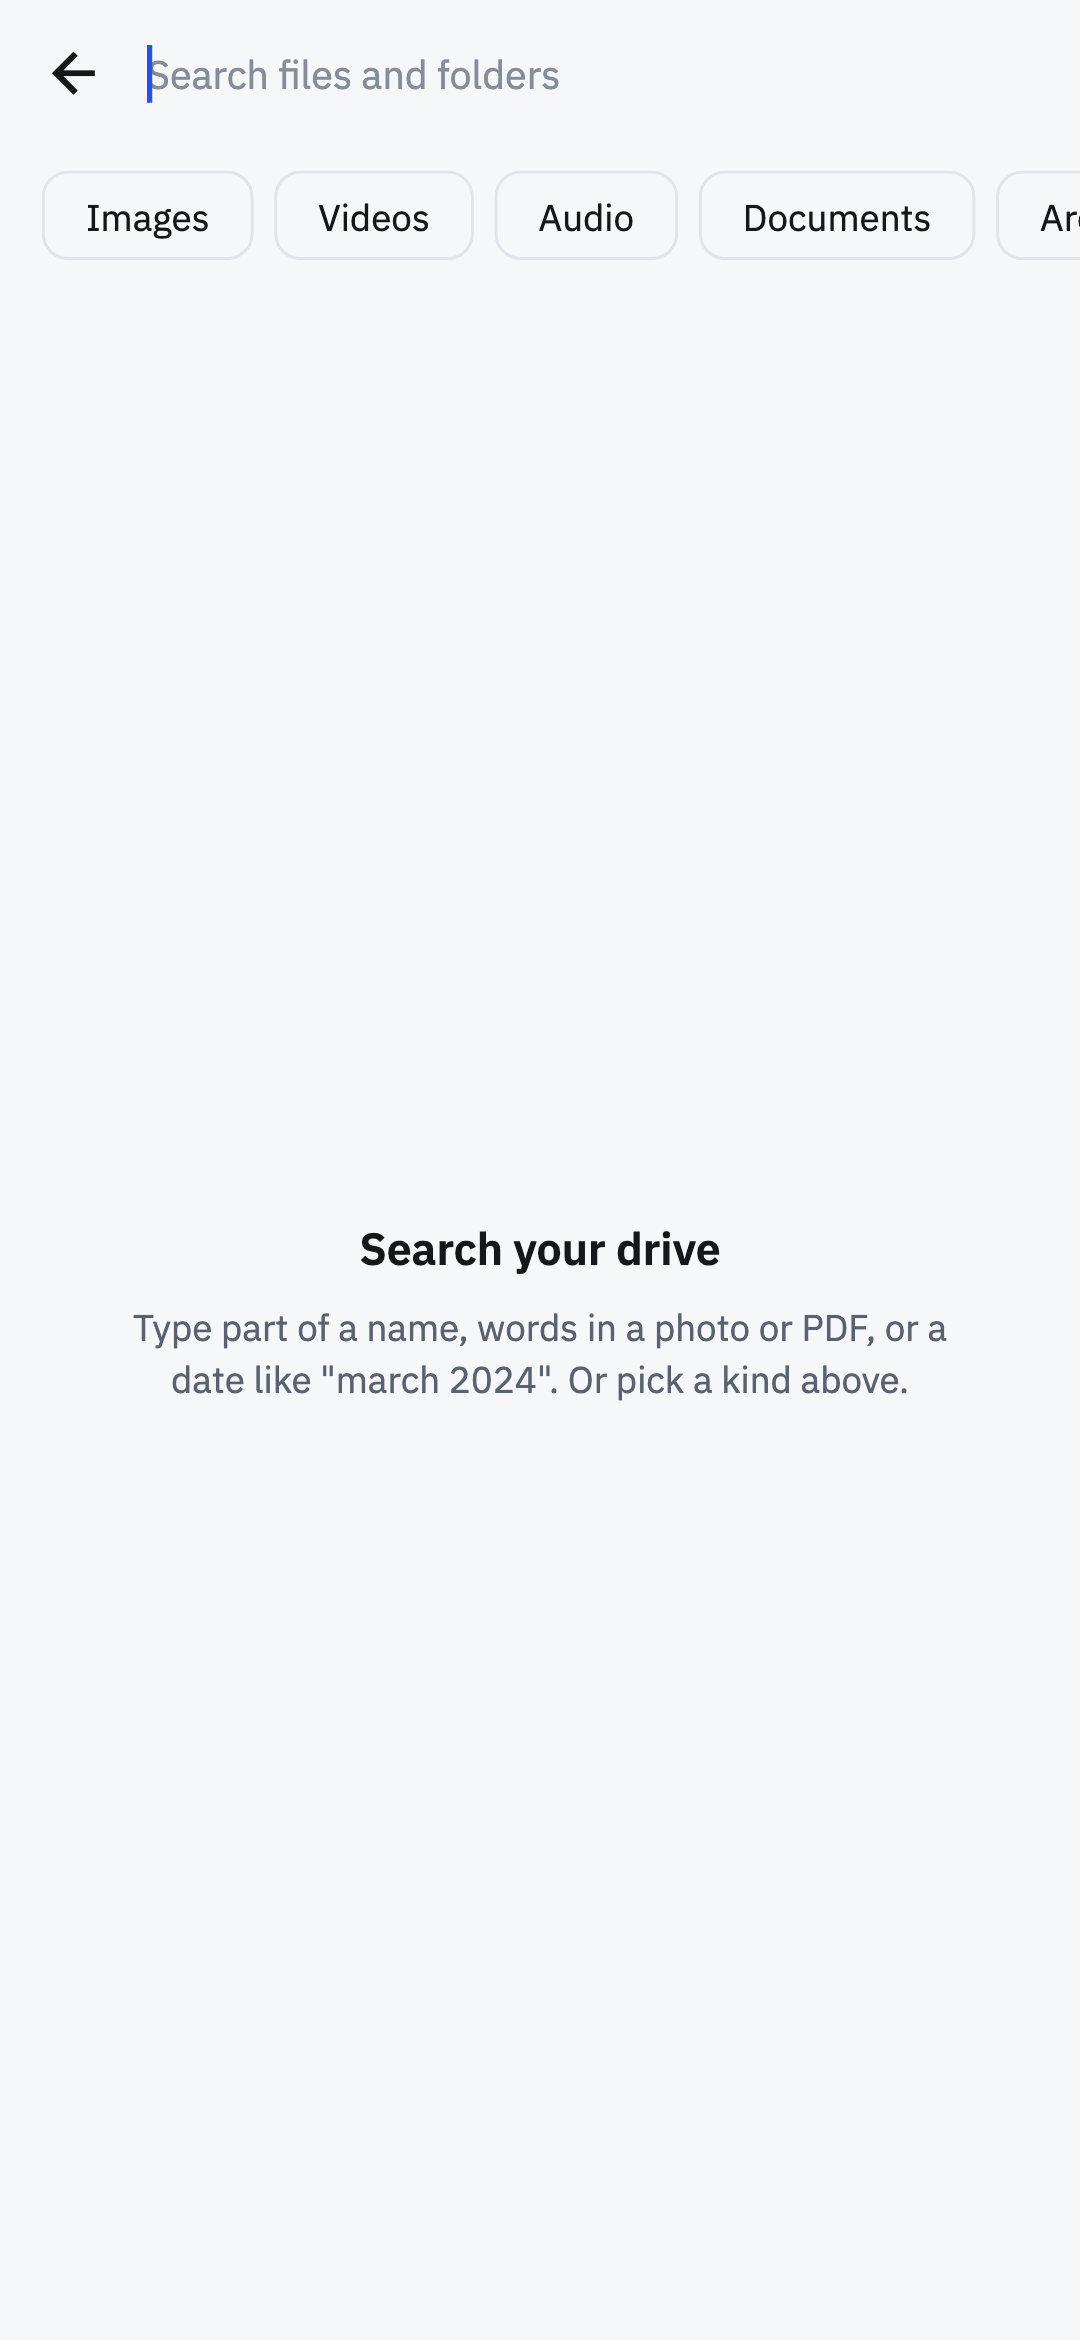
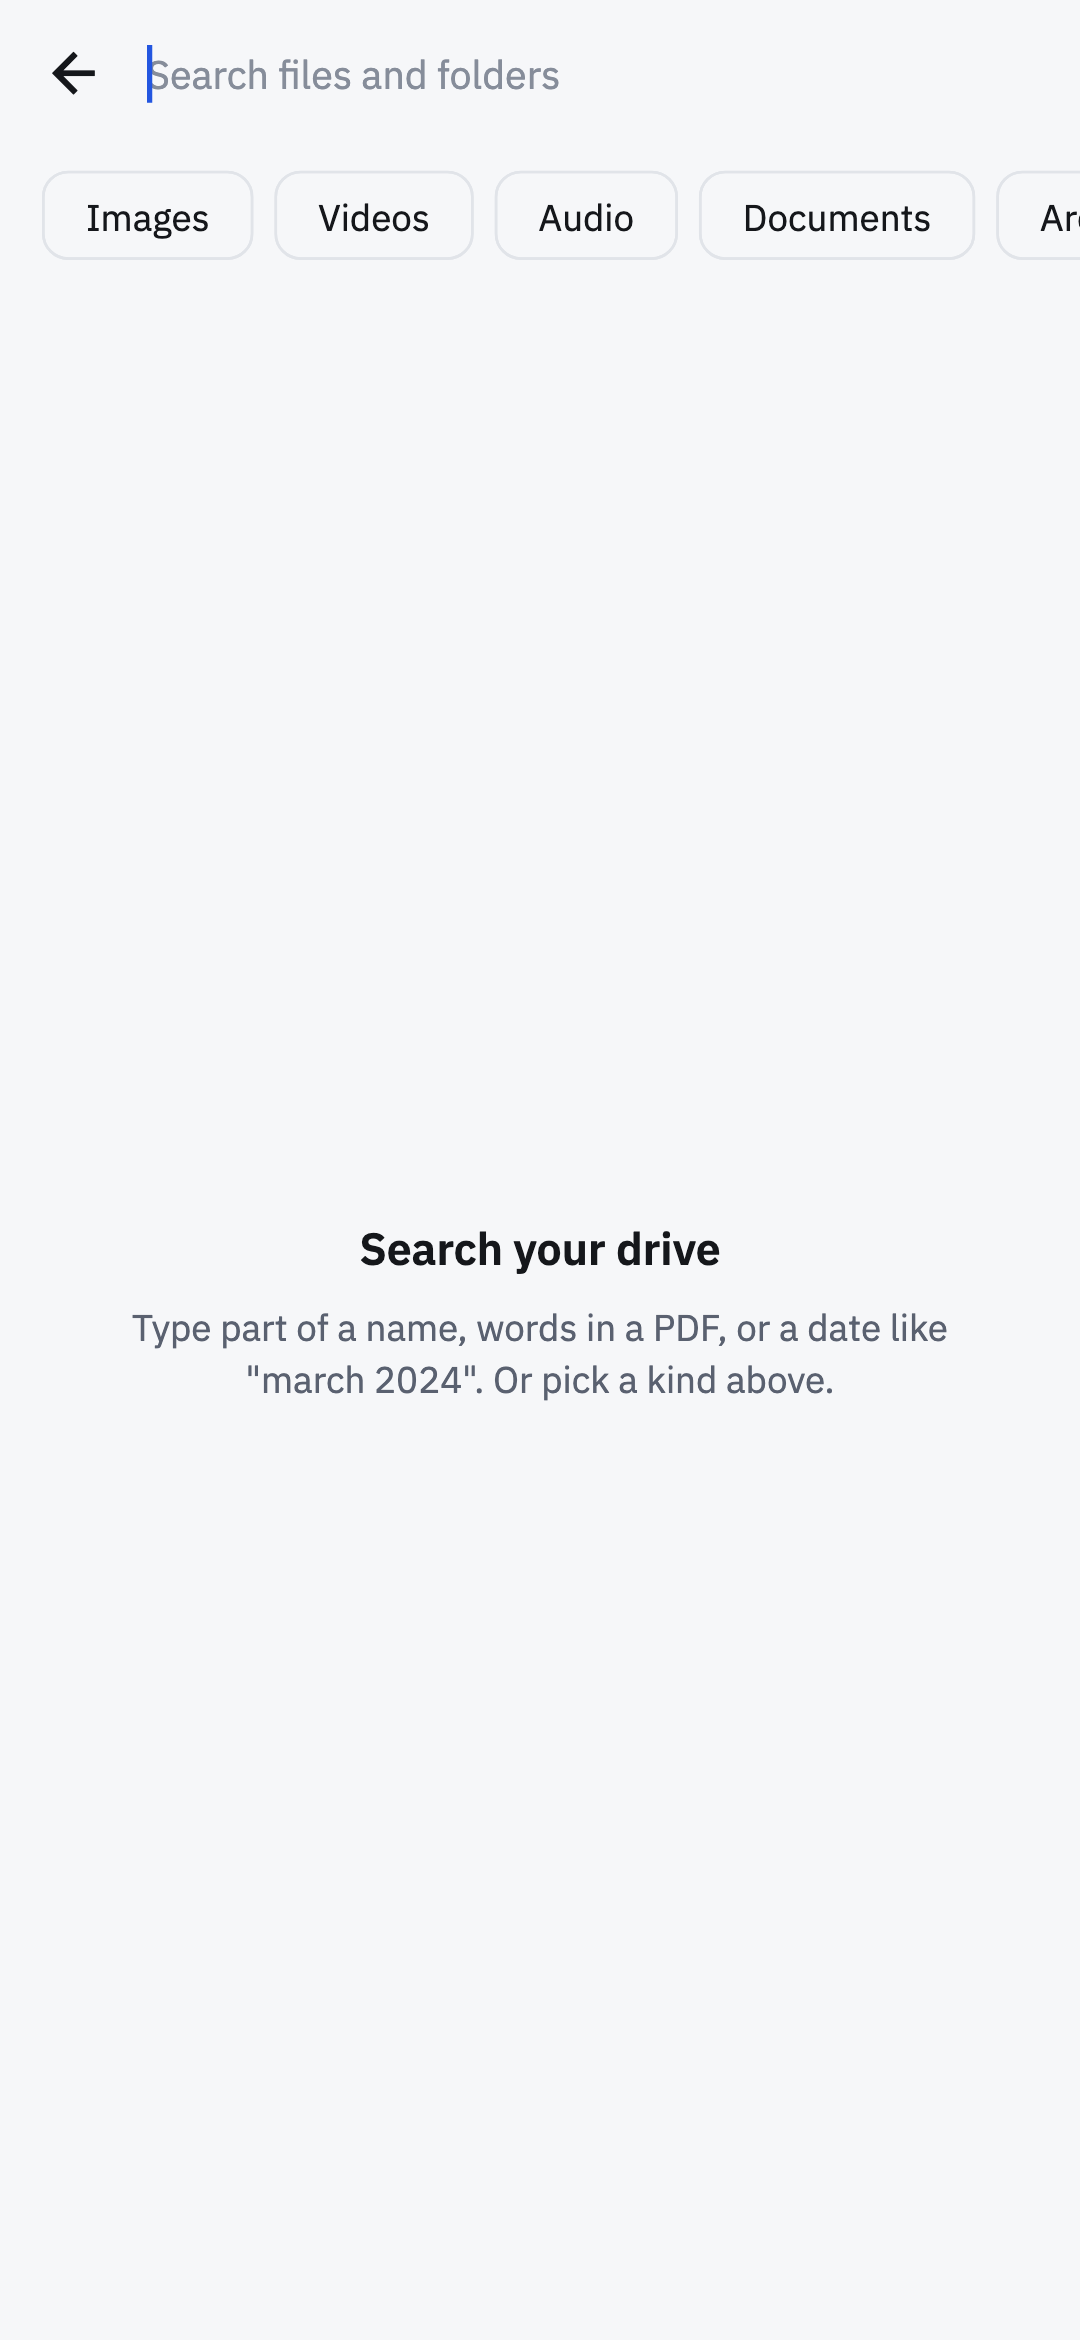
refactor(search): read documents only, without ML Kit
Recognising text and objects in photos didn't reliably find them, and the
two on-device models made the app 26 MB bigger (the arm64 APK drops from
82.8 MB to 56.7 MB). Search still reads the words in PDFs and text files,
which costs nothing extra since the PDF reader is there for previews.

- What the old indexer read from photos is dropped on its next pass
- iOS goes back to 15.0, and release builds no longer need R8 rules

Changed region(s): [[0.1528, 0.5615, 0.8556, 0.5927]]

diff --git a/lib/features/search/data/content_indexer.dart b/lib/features/search/data/content_indexer.dart
@@ -5,13 +5,10 @@ import 'dart:io';
 import 'package:connectivity_plus/connectivity_plus.dart';
 import 'package:flutter/foundation.dart';
 import 'package:flutter_riverpod/flutter_riverpod.dart';
-import 'package:google_mlkit_image_labeling/google_mlkit_image_labeling.dart';
-import 'package:google_mlkit_text_recognition/google_mlkit_text_recognition.dart';
 import 'package:handy_tdlib/api.dart' as td;
 import 'package:pdfrx/pdfrx.dart';
-import 'package:photo_manager/photo_manager.dart';
 
-import '../../../core/files/file_kind.dart';
+import '../../../core/files/file_kind.dart' show Preview;
 import '../../../infrastructure/database/app_database.dart';
 import '../../../infrastructure/storage/preferences.dart';
 import '../../../infrastructure/telegram/telegram_client.dart';
@@ -38,18 +35,15 @@ class IndexerState {
   );
 }
 
-/// Reads what is in photos and documents so search can find them by it:
-/// the text in a photo (a receipt, a sign, a screenshot), what a photo
-/// shows ("dog", "beach"), and the words in PDFs and text files.
+/// Reads the words in PDFs and text files so search finds documents by
+/// what they say, not only by their names.
 ///
-/// Everything happens on this phone with on-device models, a file at a
-/// time while the app is open; nothing is sent anywhere. Photos are read
-/// from the phone's own copy when there is one and otherwise from their
-/// small preview (enough to say what is in them, not to read their text).
-/// Anything not on the phone yet (previews, PDFs, text files) is fetched on
+/// It happens on this phone, a file at a time while the app is open;
+/// nothing is sent anywhere. Documents not on the phone yet are fetched on
 /// Wi-Fi only.
 class ContentIndexer extends Notifier<IndexerState> {
-  static const int version = 1;
+  /// 2: documents only; version 1 also read photos.
+  static const int version = 2;
   static const int _maxChars = 20000;
   static const int _pdfLimit = 25 * 1024 * 1024;
   static const int _textLimit = 1024 * 1024;
@@ -58,10 +52,8 @@ class ContentIndexer extends Notifier<IndexerState> {
   Timer? _start;
   bool _stop = false;
 
-  /// Whether this pass may fetch previews and documents it doesn't have.
+  /// Whether this pass may fetch documents it doesn't have.
   bool _onWifi = false;
-  ImageLabeler? _labeler;
-  TextRecognizer? _recognizer;
 
   AppDatabase get _db => ref.read(appDatabaseProvider);
   TelegramClient get _client => ref.read(telegramClientProvider);
@@ -74,8 +66,6 @@ class ContentIndexer extends Notifier<IndexerState> {
     ref.onDispose(() {
       _stop = true;
       _start?.cancel();
-      unawaited(_labeler?.close());
-      unawaited(_recognizer?.close());
     });
     if (!_supported) return IndexerState(enabled: enabled);
     ref.listen<DriveSession?>(driveSessionProvider, (_, session) {
@@ -104,6 +94,7 @@ class ContentIndexer extends Notifier<IndexerState> {
     _stop = false;
     state = state.copyWith(running: true);
     try {
+      await _db.dropContentBefore(version);
       final done = await _db.indexedFileIds(version);
       final todo = [
         for (final row in await _db.completeFiles())
@@ -129,9 +120,7 @@ class ContentIndexer extends Notifier<IndexerState> {
     }
   }
 
-  static bool _readable(DriveFile file) =>
-      (file.fitsGallery && file.kind == FileKind.image) ||
-      switch (_preview(file)) {
+  static bool _readable(DriveFile file) => switch (_preview(file)) {
         Preview.pdf => file.size <= _pdfLimit,
         Preview.text => file.size <= _textLimit,
         _ => false,
@@ -148,7 +137,6 @@ class ContentIndexer extends Notifier<IndexerState> {
   /// What [file] contains, or null to try again on a later pass.
   Future<String?> _read(DriveFile file) async {
     try {
-      if (file.kind == FileKind.image) return await _readPhoto(file);
       final path = await _documentPath(file);
       if (path == null) return null;
       return _preview(file) == Preview.pdf ? await _readPdf(path) : await _readText(path);
@@ -158,51 +146,6 @@ class ContentIndexer extends Notifier<IndexerState> {
       // forever.
       return '';
     }
-  }
-
-  Future<String?> _readPhoto(DriveFile file) async {
-    final original = await _originalOnPhone(file);
-    final path = original ?? await _thumbnail(file);
-    if (path == null) return null;
-    final image = InputImage.fromFilePath(path);
-    final labels = await (_labeler ??= ImageLabeler(
-      options: ImageLabelerOptions(confidenceThreshold: 0.7),
-    )).processImage(image);
-    final words = [for (final label in labels) label.label];
-    // A 320 px preview is too small for reading text.
-    if (original != null) {
-      final text = await (_recognizer ??= TextRecognizer()).processImage(image);
-      words.add(text.text);
-    }
-    return words.join(' · ');
-  }
-
-  /// The phone's own copy (backed up from here), or one already downloaded.
-  Future<String?> _originalOnPhone(DriveFile file) async {
-    final assetId = await _db.localAssetOf(file.id);
-    if (assetId != null) {
-      try {
-        final asset = await AssetEntity.fromId(assetId);
-        final local = await asset?.file;
-        if (local != null && await local.exists()) return local.path;
-      } catch (_) {}
-    }
-    return ref.read(transferQueueProvider.notifier).localPathIfAvailable(file);
-  }
-
-  /// The file's small preview; fetched only on Wi-Fi, since a whole drive
-  /// of them adds up.
-  Future<String?> _thumbnail(DriveFile file) async {
-    final id = file.thumbnailFileId;
-    if (id == null) return null;
-    final known = await _client.send<td.File>(td.GetFile(fileId: id));
-    if (known.local.isDownloadingCompleted) return known.local.path;
-    if (!_onWifi) return null;
-    final thumb = await _client.send<td.File>(
-      td.DownloadFile(fileId: id, priority: 1, offset: 0, limit: 0, synchronous: true),
-      timeout: const Duration(minutes: 1),
-    );
-    return thumb.local.isDownloadingCompleted ? thumb.local.path : null;
   }
 
   /// A document's path, fetching it only on Wi-Fi.

diff --git a/lib/features/settings/presentation/settings_screen.dart b/lib/features/settings/presentation/settings_screen.dart
@@ -219,12 +219,12 @@ class SettingsScreen extends ConsumerWidget {
           ListGroup(
             children: [
               SwitchListTile(
-                title: const Text('Search inside photos and documents'),
+                title: const Text('Search inside documents'),
                 subtitle: Text(
                   indexer.running && indexer.left > 0
                       ? 'Reading · ${Formatters.count(indexer.left, 'file')} to go'
-                      : 'Finds text and things in photos, and words in PDFs. '
-                            'Worked out on this phone${indexed > 0 ? ' · ${Formatters.count(indexed, 'file')} read' : ''}.',
+                      : 'Finds PDFs and text files by the words in them. Read on '
+                            'this phone, on Wi-Fi${indexed > 0 ? ' · ${Formatters.count(indexed, 'file')} read' : ''}.',
                 ),
                 value: indexer.enabled,
                 onChanged: (on) => ref.read(contentIndexerProvider.notifier).setEnabled(on),

diff --git a/lib/features/search/presentation/search_screen.dart b/lib/features/search/presentation/search_screen.dart
@@ -150,8 +150,8 @@ class _SearchScreenState extends ConsumerState<SearchScreen> {
                 ? const EmptyState(
                     title: 'Search your drive',
                     message:
-                        'Type part of a name, words in a photo or PDF, or a date '
-                        'like "march 2024". Or pick a kind above.',
+                        'Type part of a name, words in a PDF, or a date like '
+                        '"march 2024". Or pick a kind above.',
                     compact: true,
                   )
                 : AsyncView(

diff --git a/lib/infrastructure/database/app_database.dart b/lib/infrastructure/database/app_database.dart
@@ -523,6 +523,11 @@ class AppDatabase extends _$AppDatabase {
         ),
       );
 
+  /// Forgets what older indexer versions read, so it is read again (or,
+  /// for kinds no longer read, not at all).
+  Future<void> dropContentBefore(int version) =>
+      (delete(fileContents)..where((c) => c.version.isSmallerThanValue(version))).go();
+
   Stream<int> watchIndexedCount() {
     final count = fileContents.fileId.count();
     return (selectOnly(fileContents)..addColumns([count]))

diff --git a/README.md b/README.md
@@ -50,9 +50,9 @@ phone number.
 - **Watch and read without downloading.** Videos and music stream as they
   play, with seeking, even across a split file's parts. PDFs and text files
   open in the app. Everything else opens in the right app on your phone.
-- **Search inside photos and documents.** On-device models read the text in
-  photos and what they show, plus the words in PDFs, so "receipt" or "dog"
-  finds them. Dates work too: "march 2024", "last week".
+- **Search inside documents.** The words in PDFs and text files are read on
+  the phone, so search finds documents by what they say. Dates work too:
+  "march 2024", "last week".
 - **Send in Telegram.** Send any file to a chat straight from the drive,
   with no re-upload.
 - **Share to Telegrive** from any app on Android, into the folder you pick.
@@ -187,8 +187,6 @@ work doesn't need a Telegram account.
   closed-app job notifies and the app does the upload; running TDLib inside
   the background job would remove that tap.
 - **Share-sheet intake on iOS**, which needs a share extension.
-- **Text recognition beyond Latin script.** ML Kit reads Latin text only, so
-  Amharic (Ge'ez) text in photos isn't found yet.
 
 ## Good to know
 
